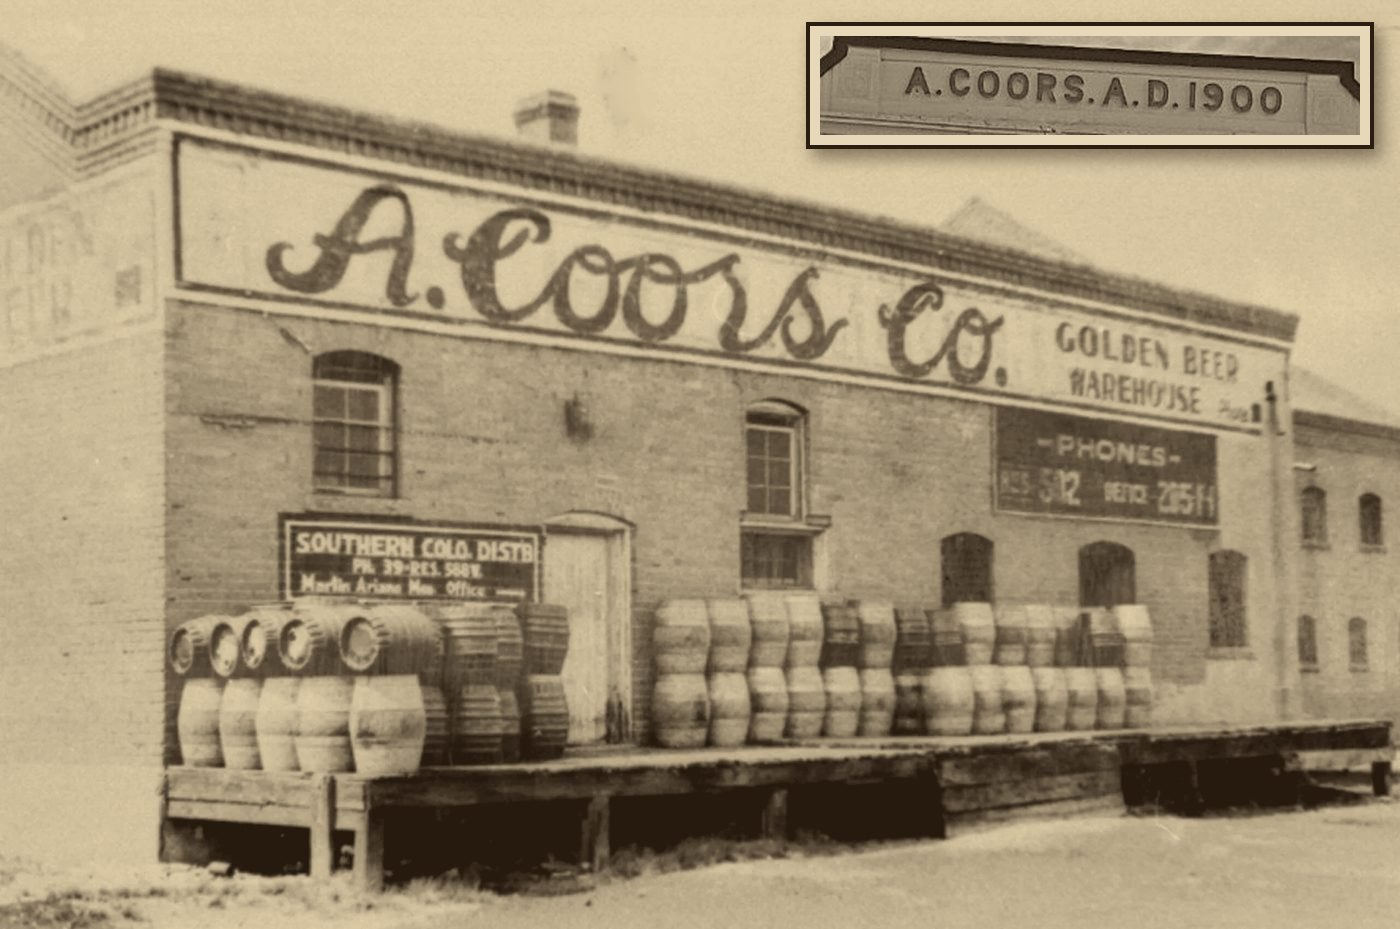
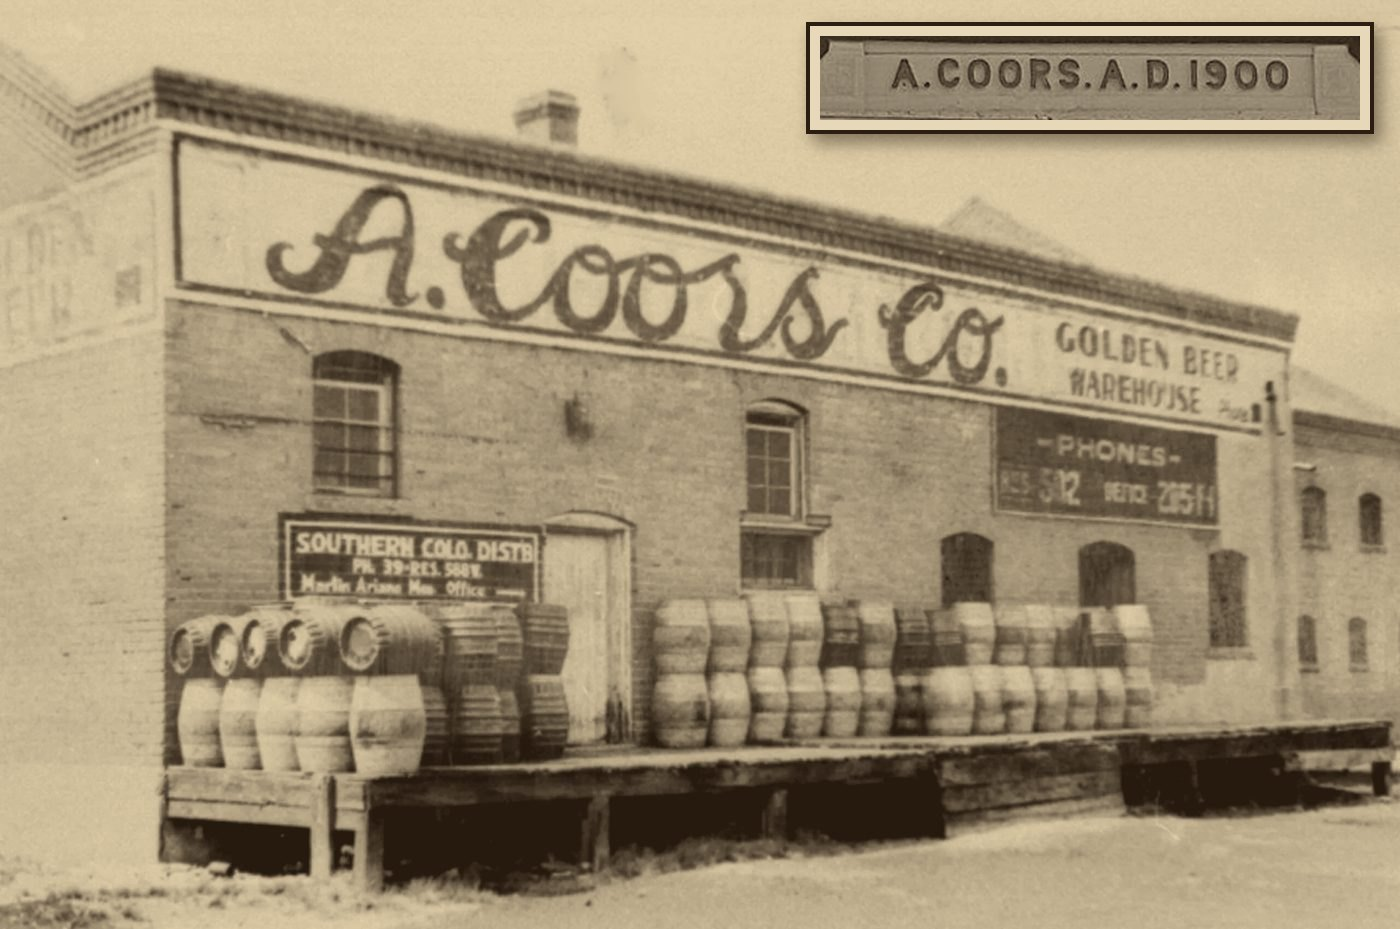
Steady Wake: straighten A. Coors sign inset; remove the Durango street photo
Claude-Session: https://claude.ai/code/session_01QyodiE5ydjaS1AehiEuarR

Changed region(s): [[0.5529, 0.0312, 1.0, 0.1873]]

diff --git a/app/dispatch/_shared.js b/app/dispatch/_shared.js
@@ -39,21 +39,11 @@ export const BRAND = {
 };
 
 export const PHOTO = {
-  src: "/steady-wake/warehouse-1933-inset.jpg",
+  src: "/steady-wake/warehouse-1933-inset.jpg?v=2",
   width: 1400,
   height: 929,
   alt: "Old brick beer warehouse with wooden kegs stacked on the loading dock and a sign reading Southern Colo. Distb., Martin Ariano, Mgr. A framed inset in the top corner shows the A. Coors A.D. 1900 sign from the Coors building on Main Avenue in Durango.",
   caption: "Where it started: the warehouse my grandfather Gerald Ariano and his brother Martin ran in Southern Colorado.",
-};
-
-// "Now" photo shown beside the 1933 warehouse: the A. Coors building on
-// Main Avenue in Durango (photo by Rob, Oct 2026).
-export const NOW_PHOTO = {
-  src: "/steady-wake/coors-building-durango.jpg?v=3",
-  width: 1400,
-  height: 929,
-  alt: "Red brick building on Main Avenue in Durango with A. Coors A.D. 1900 carved at the top, under a blue sky with a yellow fall tree out front.",
-  caption: "The A. Coors building (1900) on Main Avenue in Durango, the town where I made deliveries from age 14.",
 };
 
 const CSS = `
@@ -84,11 +74,6 @@ const CSS = `
 .swd-photo{border:6px solid var(--ink);outline:1px solid var(--ink);outline-offset:4px;background:var(--ink);margin:28px 6px 0}
 .swd-photo img{display:block;width:100%;height:auto}
 .swd-cap{font:italic .95rem/1.4 var(--f-body);color:var(--ink-soft);text-align:center;margin:12px 0 0}
-.swd-pair{display:grid;gap:30px;margin-top:28px;align-items:start}
-.swd-pair figure{margin:0}
-.swd-pair .swd-photo{margin:0 6px}
-.swd-tag{display:block;text-align:center;font:700 .78rem/1 var(--f-ledger);letter-spacing:.18em;text-transform:uppercase;color:var(--oxblood);margin:0 0 12px}
-@media (min-width:760px){.swd-pair{grid-template-columns:1fr 1fr;gap:26px}}
 .swd-thesis{text-align:center;display:grid;gap:12px;justify-items:center;margin-top:24px}
 .swd-thesis h2{margin:0;font:800 clamp(2rem,6vw,3.3rem)/1.04 var(--f-display);text-wrap:balance}
 .swd-thesis h2 .a{color:var(--brass);display:block}
@@ -196,25 +181,16 @@ export function SteadyWakePage({ active, children }) {
   );
 }
 
-// The 1933 warehouse ("Then") beside today's A. Coors building in Durango ("Now").
+// The 1933 warehouse photo, with a framed inset of the A. Coors 1900 sign
+// from Main Avenue in Durango.
 export function ThenNow() {
   return (
-    <div className="swd-pair">
-      <figure>
-        <span className="swd-tag">Then · 1933</span>
-        <div className="swd-photo">
-          <img src={PHOTO.src} alt={PHOTO.alt} width={PHOTO.width} height={PHOTO.height} />
-        </div>
-        <figcaption className="swd-cap">{PHOTO.caption}</figcaption>
-      </figure>
-      <figure>
-        <span className="swd-tag">Now · Durango</span>
-        <div className="swd-photo">
-          <img src={NOW_PHOTO.src} alt={NOW_PHOTO.alt} width={NOW_PHOTO.width} height={NOW_PHOTO.height} loading="lazy" />
-        </div>
-        <figcaption className="swd-cap">{NOW_PHOTO.caption}</figcaption>
-      </figure>
-    </div>
+    <figure style={{ margin: 0 }}>
+      <div className="swd-photo">
+        <img src={PHOTO.src} alt={PHOTO.alt} width={PHOTO.width} height={PHOTO.height} />
+      </div>
+      <figcaption className="swd-cap">{PHOTO.caption}</figcaption>
+    </figure>
   );
 }
 
